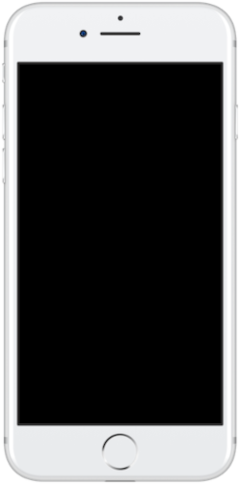
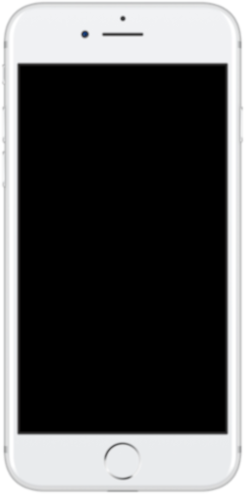
atualizações

diff --git a/Projeto Social/Estilos/style.css b/Projeto Social/Estilos/style.css
@@ -27,8 +27,8 @@ section#telefone{
     top: 50%;
     left: 50%;
     transform: translate(-50%, -43%);
-    height: 484px;
-    width: 240px;
+    height: 494px;
+    width: 245px;
     background: url('../Imagens/frame-iphone.png') no-repeat;
     background-size: cover;
     
@@ -59,14 +59,14 @@ section#redes-sociais img:hover{
 a{
     text-decoration: none;
     position: relative;
-    top: 1px;
+    top: 15px;
     left: 1px;
 }
 
 iframe#tela{
     position: relative;
-    top: 62px;
-    left: 17px;
-    width: 206px;
-    height: 363px;
+    top: 64px;
+    left: 18px;
+    width: 210px;
+    height: 370px;
 }
